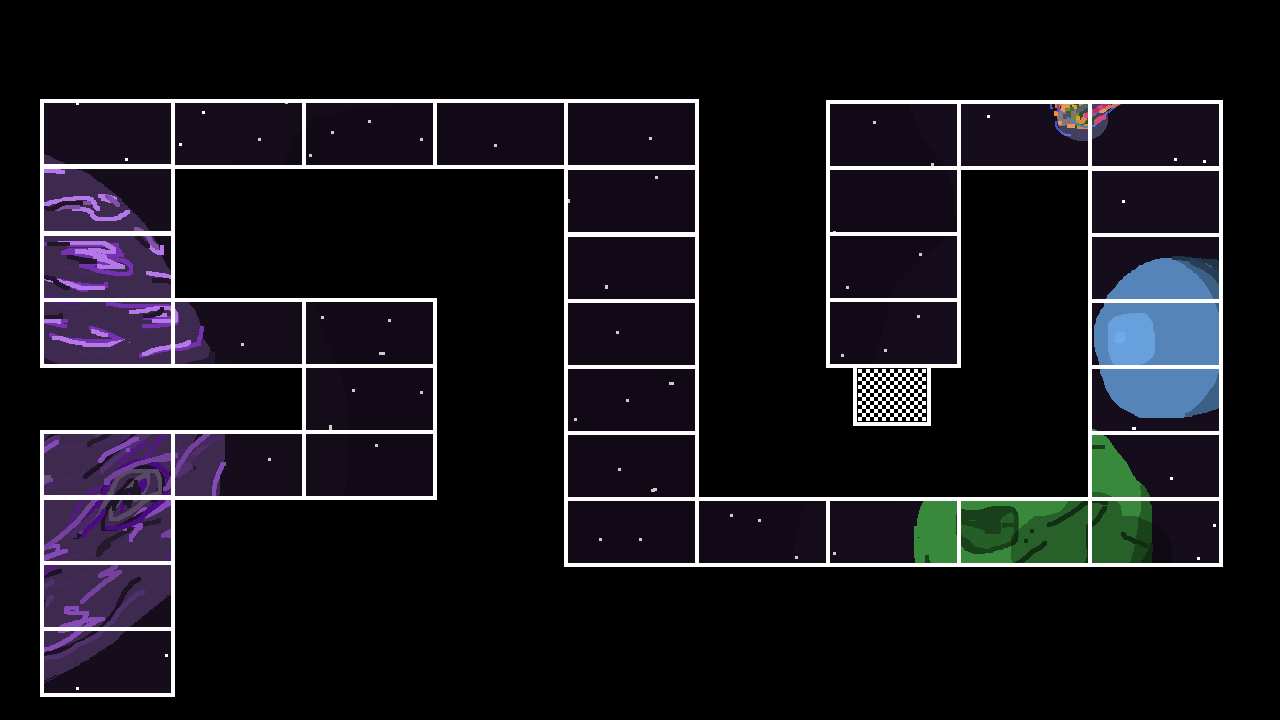
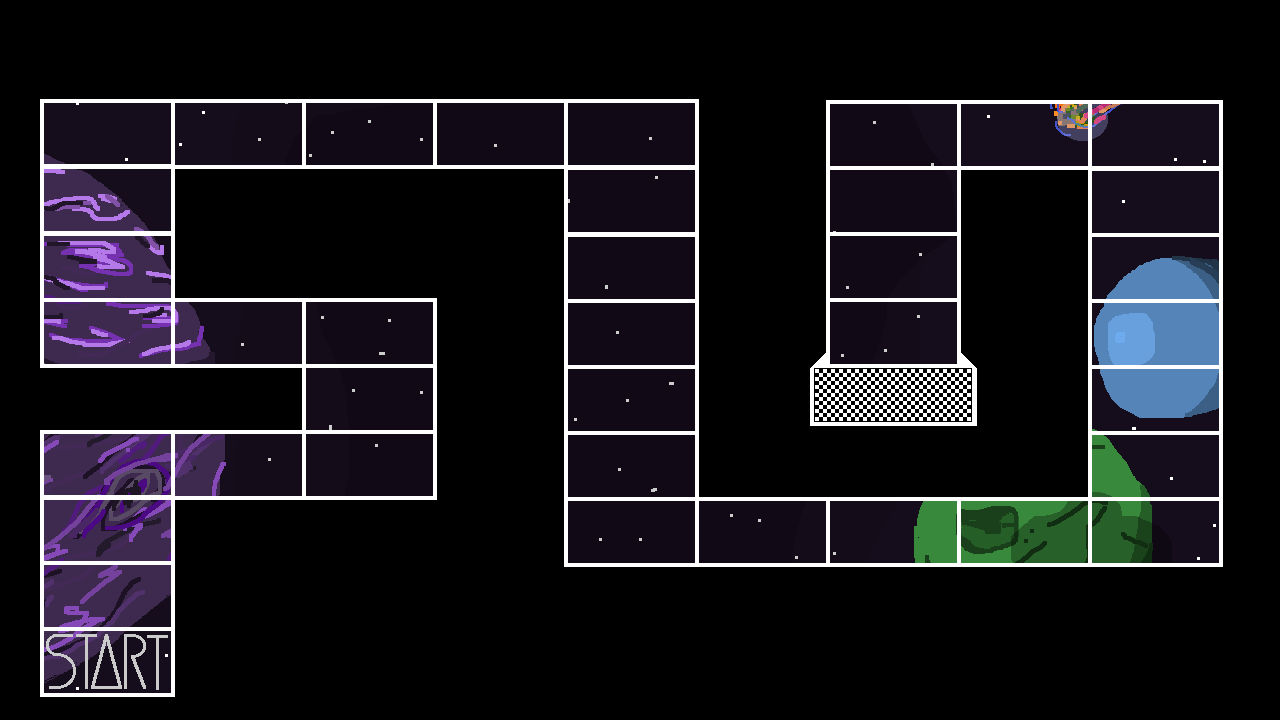
Tabuleiro editado; impressão pós-mecânicas

Changed region(s): [[0.625, 0.4889, 0.7812, 0.6111], [0.0312, 0.8556, 0.125, 0.9778]]

diff --git a/source/game.c b/source/game.c
@@ -46,6 +46,42 @@ void Game(ALLEGRO_DISPLAY *display, ALLEGRO_TIMER *timer,
 	setAllPosition(playersPositions);
 
 	while(!exit){
+		al_wait_for_event(eventQueue, event);
+
+		if(event->type == ALLEGRO_EVENT_KEY_DOWN){
+			//ESC para SAIR
+			if(event->keyboard.keycode == ALLEGRO_KEY_ESCAPE){
+				exit = true;
+			}
+
+			if(event->keyboard.keycode == ALLEGRO_KEY_SPACE){
+
+				player atual = pop(&playersQueue);
+
+				if(IsAFK(&atual)){}
+					//Exibir mensagem de apertar enter para passar a vez
+					//Funcao mover trata isso
+				Mover(&players[atual.ID]);
+				if(!IsAFK(&atual) && getEfeito(&gameArena, getPosicao(&players[atual.ID]))){
+					Dormir(&players[atual.ID]);
+				}
+				//Condição de Vitória
+				if(players[atual.ID].pos > TAM){
+					players[atual.ID].pos = 38;		//Ultima casa do Jogo
+				}
+				//joga jogador novamente no final da fila de turnos
+				push(&playersQueue, players[atual.ID]);
+			}
+
+			if(event->keyboard.keycode == ALLEGRO_KEY_ENTER){
+				printf("codigo da carta: %d\n", top(&baralho).id);
+				popStack(&baralho);
+			}
+		}
+		//Clicar no X para SAIR
+		if(event->type == ALLEGRO_EVENT_DISPLAY_CLOSE){
+			exit = true;
+		}
 
 		al_draw_bitmap(gameBackground, 0, 0, 0);
 		switch(numberPlayers){
@@ -60,42 +96,5 @@ void Game(ALLEGRO_DISPLAY *display, ALLEGRO_TIMER *timer,
 		}
 
 		al_flip_display();
-		al_wait_for_event(eventQueue, event);
-
-		if(event->type == ALLEGRO_EVENT_KEY_DOWN){
-			//ESC para SAIR
-			if(event->keyboard.keycode == ALLEGRO_KEY_ESCAPE){
-				exit = true;
-			}
-
-			if(event->keyboard.keycode == ALLEGRO_KEY_SPACE){
-				//push(&playersQueue, pop(&playersQueue));
-				player atual = pop(&playersQueue);
-				//printf("%d\n", atual.ID); //Debugging purposes
-				//player andando
-				if(IsAFK(&atual)){}
-					//Exibir mensagem de apertar enter para passar a vez
-					//Funcao mover trata isso
-				Mover(&players[atual.ID]);
-				if(!IsAFK(&atual) && getEfeito(&gameArena, getPosicao(&players[atual.ID]))){
-					Dormir(&players[atual.ID]);
-				}
-				if(players[atual.ID].pos > TAM){}
-					//printf("Jogador %d ganhou o jogo!!", atual.ID + 1);
-					//Exibir mensagem que jogador ganhou e terminar o jogo
-
-				//joga jogador novamente no final da fila de turnos
-				push(&playersQueue, players[atual.ID]);
-			}
-
-			if(event->keyboard.keycode == ALLEGRO_KEY_ENTER){
-				printf("codigo da carta: %d\n", top(&baralho).id);
-				popStack(&baralho);
-			}
-		}
-		//Clicar no X para SAIR
-		if(event->type == ALLEGRO_EVENT_DISPLAY_CLOSE){
-			exit = true;
-		}
 	}
 }

diff --git a/include/includes.h b/include/includes.h
@@ -19,7 +19,7 @@
 
 //Constantes
 #define FPS 30
-#define TAM 100
+#define TAM 38
 #define TAM_DADO 6
 #define WIDTH 1280
 #define HEIGHT 720
@@ -41,12 +41,12 @@
 //Bibliotecas Próprias
 #include "menu.h"
 #include "game.h"
+#include "pair.h"
+#include "carta.h"
 #include "player.h"
 #include "tabuleiro.h"
 #include "staticQueue.h"
-#include "carta.h"
 #include "staticStack.h"
-#include "pair.h"
 
 //Cores
 #define COLOR_RED al_map_rgb(255,0,0)

diff --git a/source/player.c b/source/player.c
@@ -23,11 +23,11 @@ void Mover(player *p){
 }
 
 void Dormir(player *p){
-	p->afk += 10;
+	p->afk += 3;
 }
 
 void Paralisar(player *p){
-	p->afk += 5;
+	p->afk += 2;
 }
 
 int getPosicao(player *p){

diff --git a/source/menu.c b/source/menu.c
@@ -73,7 +73,7 @@ void FirstMenu(){
 
 	al_start_timer(timer);
 
-	//Intro(display, introOne, 12);
+	Intro(display, introOne, 12);
 
 	while(!exit){
 		al_draw_bitmap(menuBackground, 0, 0, 0);

diff --git a/source/pair.c b/source/pair.c
@@ -44,6 +44,6 @@ void setAllPosition(pair *p){
 	setPos(&p[35], 795, 65);
 	setPos(&p[36], 795, 135);
 	setPos(&p[37], 795, 200);
-	setPos(&p[38], 825, 280);
+	setPos(&p[38], 795, 255);
 }
 
